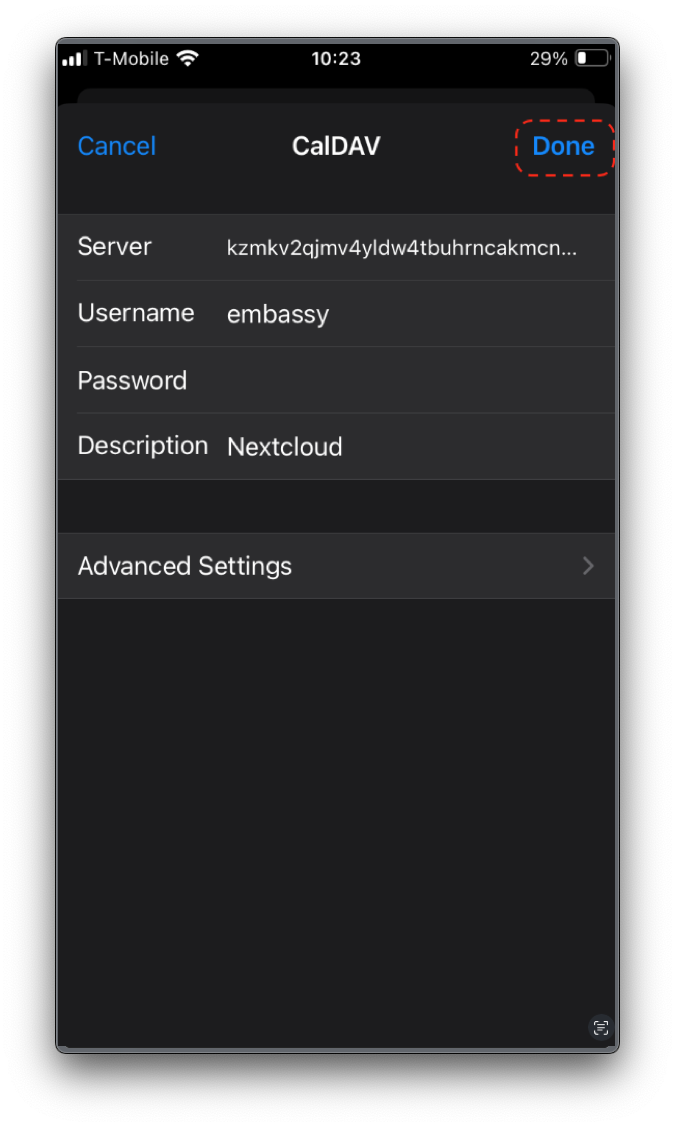
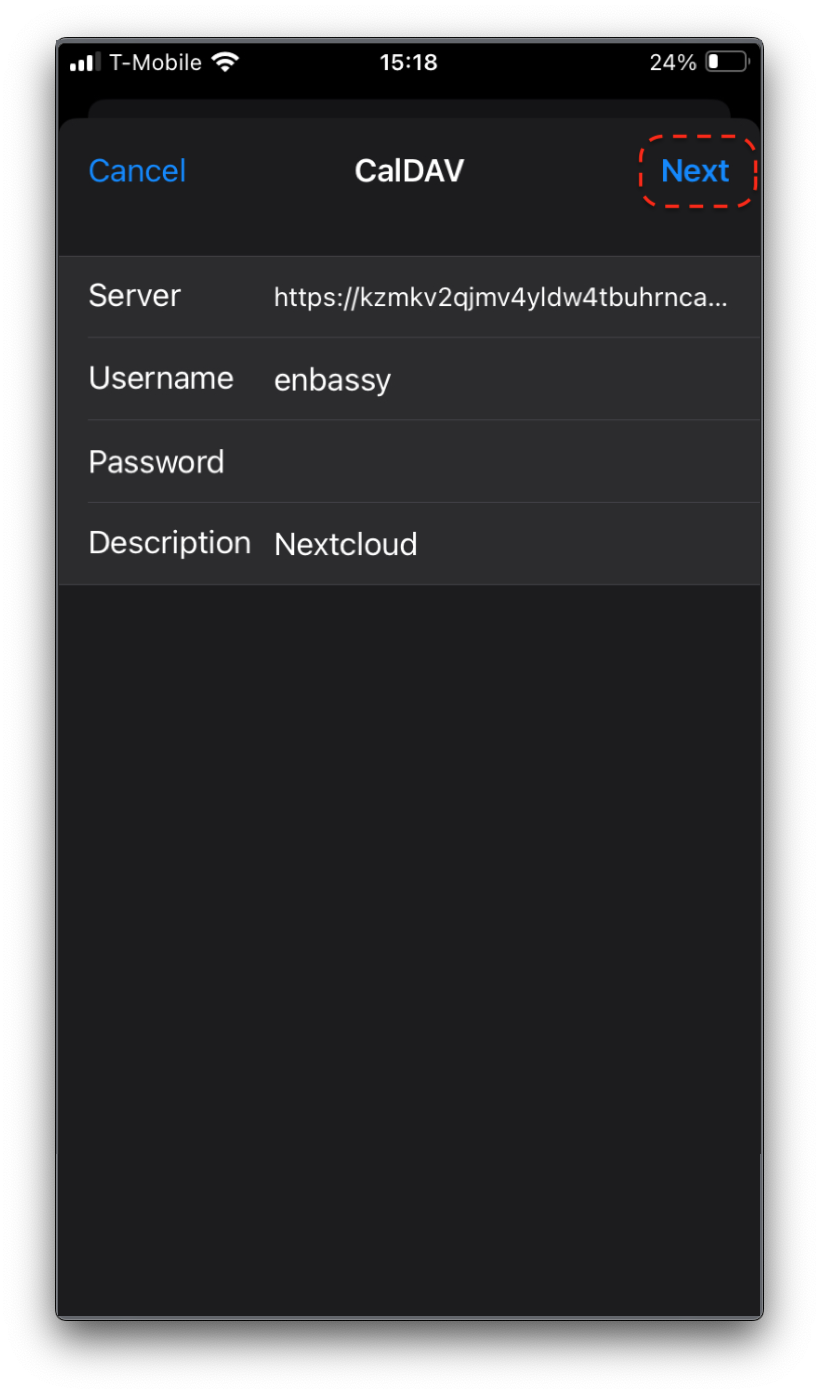
Correction

diff --git a/site/source/service-guides/nextcloud/nextcloud-setup/nextcloud-ios.rst b/site/source/service-guides/nextcloud/nextcloud-setup/nextcloud-ios.rst
@@ -112,7 +112,7 @@ First head into the top-righthand menu of your Nextcloud's WebUI and click "Apps
   :width: 30%
   :alt: nextcloud account settings
 
-4. If you get a warning about verifying the server identity, it is safe to "Continue."  Add the apps you want to use, such as Calendars, Contacts, and/or Reminders, then tap "Done".
+4. If you get a warning about verifying the server identity, it is safe to "Continue."  Add the apps you want to use, such as Calendars, Contacts, and/or Reminders, then tap "Next".
 
   - That's it!  Go back to step 2 above to set up your other account (CalDAV / CardDAV).
 
